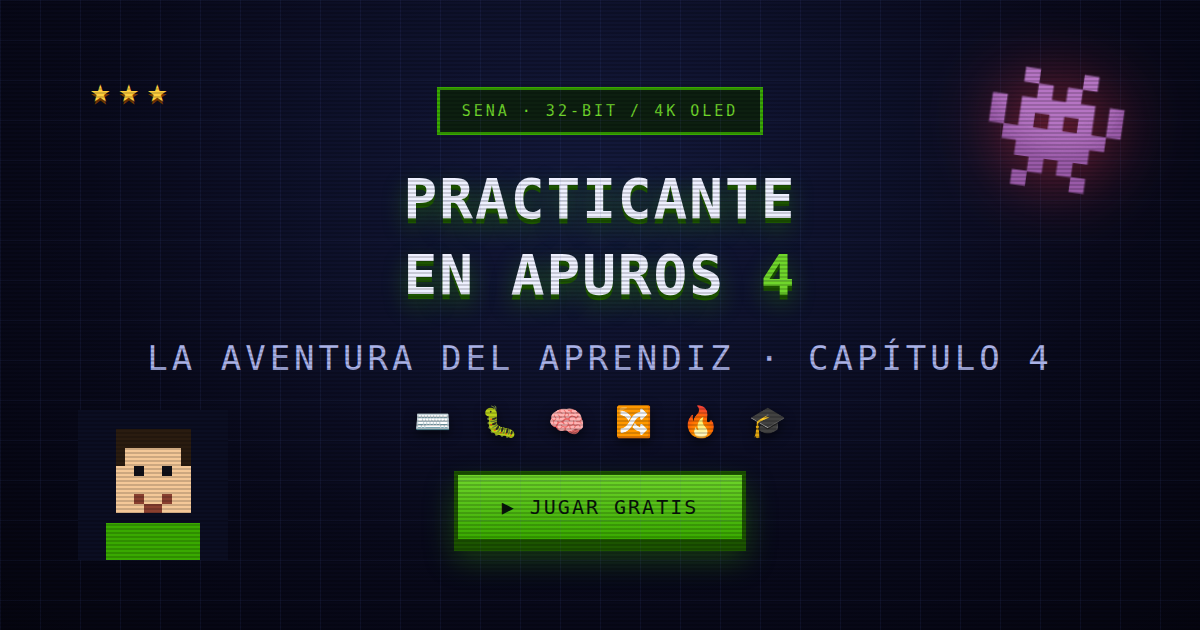
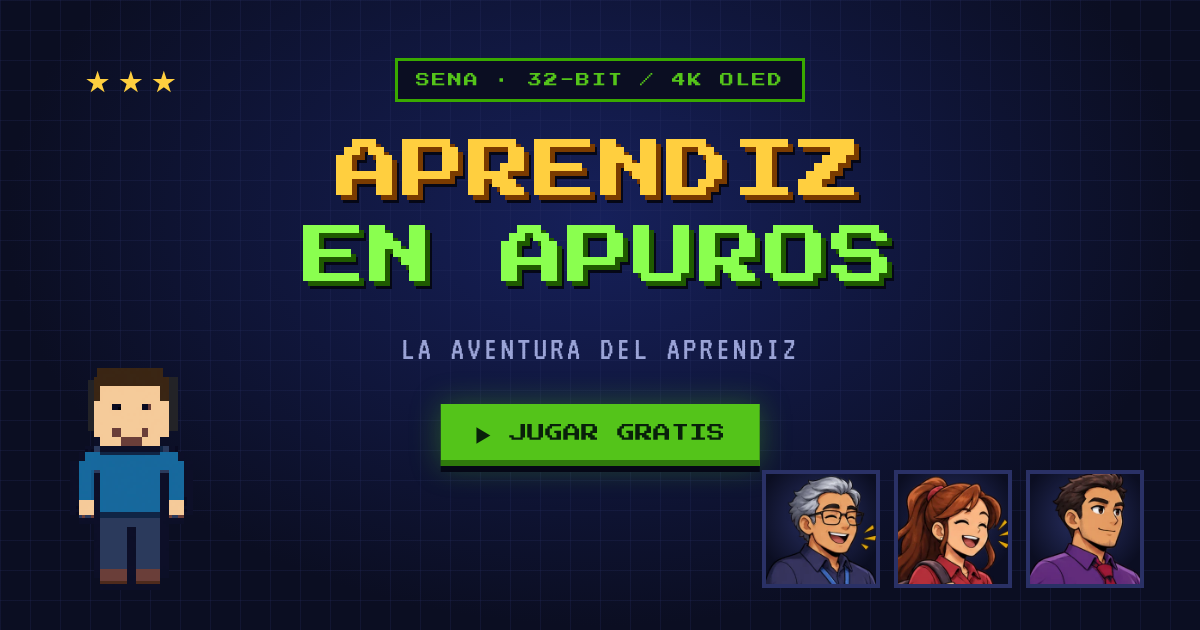
v21.3: el juego se llama "Aprendiz en apuros", sin número
El "4" de "Practicante en Apuros 4" era un número de versión antiguo metido
en el título (y "Capítulo 4" en el subtítulo), no una cuarta parte. Ahora
coincide con el repositorio, los enlaces y la historia (el jugador es un
aprendiz):
- portada del juego: "APRENDIZ EN APUROS" sin la placa del 4, y el subtítulo
  de siempre sin "· Capítulo 4";
- pestaña, vista previa al compartir, nombre del icono instalado (manifest),
  texto de "compartir resultado", README y UI kit;
- portada.png regenerada con el mismo texto que tenía (y los personajes
  actuales); la genera scripts/build-portada.mjs.
El rango "PRACTICANTE", los detalles de ambientación de los minijuegos y la
caché interna pa4 no cambian.

Claude-Session: https://claude.ai/code/session_019Fo2tZVZXrVgMWLNzj5gVe

diff --git a/js/datos.js b/js/datos.js
@@ -1,6 +1,6 @@
 'use strict';
 /* ══════════════════════════════════════════
-   PRACTICANTE EN APUROS 3 · SENA 32-BIT
+   APRENDIZ EN APUROS · SENA 32-BIT
    10 días de etapa lectiva + 5 de etapa productiva
    ══════════════════════════════════════════ */
 /* ── VERSIÓN Y NOVEDADES ──
@@ -20,8 +20,11 @@
    (v21.1, v21.2…). Antes cada publicación subía uno (llegó a v44); se
    renumeró todo con esta regla y la equivalencia vieja → nueva está en
    VERSIONES.md, porque los mensajes de commit conservan los números viejos. */
-const VERSION='v21.2';
+const VERSION='v21.3';
 const NOVEDADES=[
+  {v:'v21.3', fecha:'2026-11-09',
+   es:['El juego se llama ahora "Aprendiz en apuros", sin número: el "4" del título era un número de versión antiguo, no una cuarta parte. Cambian la portada (también se quita el «Capítulo 4» del subtítulo), el nombre del icono al instalarlo, el texto de compartir y la imagen que sale al pegar el enlace.'],
+   en:['The game is now called "Aprendiz en apuros", with no number: the "4" in the title was an old version number, not a fourth part. The title screen (the «Chapter 4» is also removed from the subtitle), the installed icon name, the share text and the link preview image all change.']},
   {v:'v21.2', fecha:'2026-11-09',
    es:['Los personajes de la historia (Instructor, Compañera y Líder técnico) ahora salen siempre dibujados: ese es su estilo. Tu aprendiz sigue en pixel.',
        'Los retratos dibujados se guardan para jugar sin conexión.',
@@ -782,7 +785,7 @@ const TXT={
   glob_sinred:'Sin conexión con el marcador. Abajo siguen tus marcas locales.',
   glob_vacio:'Nadie ha publicado todavía. ¡Sé el primero!',
   glob_locvacio:'Termina el día 5 para registrar tu primera marca.',
-  sub:'LA AVENTURA DEL APRENDIZ · CAPÍTULO 4',mapa:'RUTA DE FORMACIÓN',volver:'← VOLVER',continuar:'CONTINUAR',
+  sub:'LA AVENTURA DEL APRENDIZ',mapa:'RUTA DE FORMACIÓN',volver:'← VOLVER',continuar:'CONTINUAR',
   pausa:'PAUSA',salirmapa:'SALIR AL MAPA',empezar:'¡EMPEZAR!',listo:'¿LISTO?',aqui:'AQUÍ',
   aprobado:'¡DÍA SUPERADO!',fallado:'¡DÍA FALLIDO!',reintentar:'REINTENTAR',siguiente:'SIGUIENTE DÍA ▶',
   gameover:'GAME OVER',gameovertxt:'Te quedaste sin vidas. El instructor te manda a tomar aire y volver mañana.',
@@ -865,7 +868,7 @@ const TXT={
   st_jefes:'JEFES VENCIDOS',st_perfectos:'DÍAS PERFECTOS',st_racha:'MEJOR RACHA',
   st_partidas:'PARTIDAS TERMINADAS',st_sinreg:'Aún no hay datos. ¡A jugar!',
   compartir:'📤 COMPARTIR',copiado:'¡COPIADO AL PORTAPAPELES!',
-  compartexto:'Terminé Practicante en Apuros 4 con {p} pts como {r} 🎓 ¡Juégalo!',
+  compartexto:'Terminé Aprendiz en apuros con {p} pts como {r} 🎓 ¡Juégalo!',
   jefefase:'FASE',avisolaser:'¡LÁSER!',
   guardado:'💾 CÓDIGO DE GUARDADO',exportar:'📤 EXPORTAR PARTIDA',importar:'📥 IMPORTAR',
   pegacodigo:'Pega aquí tu código PA4...',impok:'¡PARTIDA IMPORTADA!',impmal:'CÓDIGO INVÁLIDO',
@@ -909,7 +912,7 @@ const TXT={
   glob_sinred:'No connection to the leaderboard. Your local scores are still below.',
   glob_vacio:'Nobody has posted a score yet. Be the first!',
   glob_locvacio:'Finish day 5 to record your first score.',
-  sub:'THE APPRENTICE ADVENTURE · CHAPTER 4',mapa:'TRAINING PATH',volver:'← BACK',continuar:'CONTINUE',
+  sub:'THE APPRENTICE ADVENTURE',mapa:'TRAINING PATH',volver:'← BACK',continuar:'CONTINUE',
   pausa:'PAUSED',salirmapa:'EXIT TO MAP',empezar:'START!',listo:'READY?',aqui:'HERE',
   aprobado:'DAY CLEARED!',fallado:'DAY FAILED!',reintentar:'RETRY',siguiente:'NEXT DAY ▶',
   gameover:'GAME OVER',gameovertxt:'You ran out of lives. The instructor sends you home to try again tomorrow.',
@@ -991,7 +994,7 @@ const TXT={
   st_jefes:'BOSSES BEATEN',st_perfectos:'PERFECT DAYS',st_racha:'BEST STREAK',
   st_partidas:'GAMES FINISHED',st_sinreg:'No data yet. Go play!',
   compartir:'📤 SHARE',copiado:'COPIED TO CLIPBOARD!',
-  compartexto:'I finished Intern in Trouble 4 with {p} pts as {r} 🎓 Play it!',
+  compartexto:'I finished Aprendiz en apuros with {p} pts as {r} 🎓 Play it!',
   jefefase:'PHASE',avisolaser:'LASER!',
   guardado:'💾 SAVE CODE',exportar:'📤 EXPORT SAVE',importar:'📥 IMPORT',
   pegacodigo:'Paste your PA4 code here...',impok:'SAVE IMPORTED!',impmal:'INVALID CODE',

diff --git a/design-system/dist/index.html b/design-system/dist/index.html
@@ -442,9 +442,6 @@ html.legible .pe-nombre{font-family:'VT323',monospace;font-size:19px}
 .tit-h1{font-size:clamp(19px,6.2vw,30px);line-height:1.28;letter-spacing:1px;text-align:center}
 .tit-h1 .l1{color:var(--y2);text-shadow:3px 3px 0 var(--o1),4px 5px 0 var(--bd),0 0 24px rgba(255,207,63,.3)}
 .tit-h1 .l2{color:var(--g4);text-shadow:3px 3px 0 var(--g0),4px 5px 0 var(--bd),0 0 24px rgba(138,255,79,.3)}
-.tit-h1 .n4{display:inline-block;color:var(--v4);background:var(--v1);
-  border:3px solid var(--v3);padding:2px 9px;margin-left:8px;
-  text-shadow:2px 2px 0 var(--v0);box-shadow:0 4px 0 var(--bd),0 0 18px rgba(168,107,255,.35)}
 
 /* píldora de identidad: rango y puntos en una sola pieza con divisor */
 /* La píldora del mapa lleva TRES tramos (rango, dificultad, puntos) y con la
@@ -2270,7 +2267,7 @@ button.rp-fila:active{transform:translateY(3px);box-shadow:none}
 <p class="pv-note">Dos familias retro: <b>Press Start 2P</b> para títulos y UI (pixel, muy legible en tamaños pequeños) y <b>VT323</b> para textos largos de diálogo, consola y descripciones.</p>
 
 <p class="pv-lbl">Press Start 2P · títulos y HUD</p>
-<h1>PRACTICANTE<br>EN APUROS</h1>
+<h1>APRENDIZ<br>EN APUROS</h1>
 <h2 style="margin-top:14px">EL CONTRATO</h2>
 <h3 style="margin-top:14px">CONSULTA SQL</h3>
 <p class="sub" style="margin-top:10px">LA AVENTURA DEL APRENDIZ · CAPÍTULO 4</p>
@@ -2746,7 +2743,7 @@ button.rp-fila:active{transform:translateY(3px);box-shadow:none}
       </div>
     </div>
   </section>
-  <p class="gal-foot">Generado desde css/estilos.css · node scripts/build-ui-kit.mjs · Practicante en Apuros 4 · SENA</p>
+  <p class="gal-foot">Generado desde css/estilos.css · node scripts/build-ui-kit.mjs · Aprendiz en apuros · SENA</p>
 </div>
 </body>
 </html>

diff --git a/index.html b/index.html
@@ -5,17 +5,17 @@
 <meta name="viewport" content="width=device-width,initial-scale=1,viewport-fit=cover">
 <meta name="theme-color" content="#090a1c">
 <meta name="apple-mobile-web-app-capable" content="yes">
-<title>Practicante en Apuros 4 · SENA</title>
+<title>Aprendiz en apuros · SENA</title>
 <meta name="description" content="Pasa tu etapa lectiva y tu etapa productiva como aprendiz de programación del SENA y titúlate: minijuegos retro, jefe final oculto y certificado. Juego gratis, sin descargas.">
 <meta property="og:type" content="website">
-<meta property="og:title" content="Practicante en Apuros 4 · SENA">
+<meta property="og:title" content="Aprendiz en apuros · SENA">
 <meta property="og:description" content="Pasa tu etapa lectiva y tu etapa productiva como aprendiz de programación del SENA y titúlate: minijuegos retro, jefe final oculto y certificado.">
 <meta property="og:url" content="https://antoniyesidpabonpenalosa-bit.github.io/aprendiz-en-apuros/">
 <meta property="og:image" content="https://antoniyesidpabonpenalosa-bit.github.io/aprendiz-en-apuros/portada.png">
 <meta property="og:image:width" content="1200">
 <meta property="og:image:height" content="630">
 <meta name="twitter:card" content="summary_large_image">
-<meta name="twitter:title" content="Practicante en Apuros 4 · SENA">
+<meta name="twitter:title" content="Aprendiz en apuros · SENA">
 <meta name="twitter:description" content="Pasa tu etapa lectiva y tu etapa productiva como aprendiz de programación del SENA y titúlate: minijuegos retro, jefe final oculto y certificado.">
 <meta name="twitter:image" content="https://antoniyesidpabonpenalosa-bit.github.io/aprendiz-en-apuros/portada.png">
 <link rel="manifest" href="manifest.webmanifest">

diff --git a/design-system/dist/foundations/tipografia.html b/design-system/dist/foundations/tipografia.html
@@ -443,9 +443,6 @@ html.legible .pe-nombre{font-family:'VT323',monospace;font-size:19px}
 .tit-h1{font-size:clamp(19px,6.2vw,30px);line-height:1.28;letter-spacing:1px;text-align:center}
 .tit-h1 .l1{color:var(--y2);text-shadow:3px 3px 0 var(--o1),4px 5px 0 var(--bd),0 0 24px rgba(255,207,63,.3)}
 .tit-h1 .l2{color:var(--g4);text-shadow:3px 3px 0 var(--g0),4px 5px 0 var(--bd),0 0 24px rgba(138,255,79,.3)}
-.tit-h1 .n4{display:inline-block;color:var(--v4);background:var(--v1);
-  border:3px solid var(--v3);padding:2px 9px;margin-left:8px;
-  text-shadow:2px 2px 0 var(--v0);box-shadow:0 4px 0 var(--bd),0 0 18px rgba(168,107,255,.35)}
 
 /* píldora de identidad: rango y puntos en una sola pieza con divisor */
 /* La píldora del mapa lleva TRES tramos (rango, dificultad, puntos) y con la
@@ -1545,7 +1542,7 @@ html.hd body{background:radial-gradient(130% 120% at 50% -10%,#131b38 0%,#04050c
 <p class="pv-note">Dos familias retro: <b>Press Start 2P</b> para títulos y UI (pixel, muy legible en tamaños pequeños) y <b>VT323</b> para textos largos de diálogo, consola y descripciones.</p>
 
 <p class="pv-lbl">Press Start 2P · títulos y HUD</p>
-<h1>PRACTICANTE<br>EN APUROS</h1>
+<h1>APRENDIZ<br>EN APUROS</h1>
 <h2 style="margin-top:14px">EL CONTRATO</h2>
 <h3 style="margin-top:14px">CONSULTA SQL</h3>
 <p class="sub" style="margin-top:10px">LA AVENTURA DEL APRENDIZ · CAPÍTULO 4</p>

diff --git a/css/estilos.css b/css/estilos.css
@@ -435,9 +435,6 @@ html.legible .pe-nombre{font-family:'VT323',monospace;font-size:19px}
 .tit-h1{font-size:clamp(19px,6.2vw,30px);line-height:1.28;letter-spacing:1px;text-align:center}
 .tit-h1 .l1{color:var(--y2);text-shadow:3px 3px 0 var(--o1),4px 5px 0 var(--bd),0 0 24px rgba(255,207,63,.3)}
 .tit-h1 .l2{color:var(--g4);text-shadow:3px 3px 0 var(--g0),4px 5px 0 var(--bd),0 0 24px rgba(138,255,79,.3)}
-.tit-h1 .n4{display:inline-block;color:var(--v4);background:var(--v1);
-  border:3px solid var(--v3);padding:2px 9px;margin-left:8px;
-  text-shadow:2px 2px 0 var(--v0);box-shadow:0 4px 0 var(--bd),0 0 18px rgba(168,107,255,.35)}
 
 /* píldora de identidad: rango y puntos en una sola pieza con divisor */
 /* La píldora del mapa lleva TRES tramos (rango, dificultad, puntos) y con la

diff --git a/design-system/dist/base.css b/design-system/dist/base.css
@@ -435,9 +435,6 @@ html.legible .pe-nombre{font-family:'VT323',monospace;font-size:19px}
 .tit-h1{font-size:clamp(19px,6.2vw,30px);line-height:1.28;letter-spacing:1px;text-align:center}
 .tit-h1 .l1{color:var(--y2);text-shadow:3px 3px 0 var(--o1),4px 5px 0 var(--bd),0 0 24px rgba(255,207,63,.3)}
 .tit-h1 .l2{color:var(--g4);text-shadow:3px 3px 0 var(--g0),4px 5px 0 var(--bd),0 0 24px rgba(138,255,79,.3)}
-.tit-h1 .n4{display:inline-block;color:var(--v4);background:var(--v1);
-  border:3px solid var(--v3);padding:2px 9px;margin-left:8px;
-  text-shadow:2px 2px 0 var(--v0);box-shadow:0 4px 0 var(--bd),0 0 18px rgba(168,107,255,.35)}
 
 /* píldora de identidad: rango y puntos en una sola pieza con divisor */
 /* La píldora del mapa lleva TRES tramos (rango, dificultad, puntos) y con la

diff --git a/design-system/dist/components/botones.html b/design-system/dist/components/botones.html
@@ -443,9 +443,6 @@ html.legible .pe-nombre{font-family:'VT323',monospace;font-size:19px}
 .tit-h1{font-size:clamp(19px,6.2vw,30px);line-height:1.28;letter-spacing:1px;text-align:center}
 .tit-h1 .l1{color:var(--y2);text-shadow:3px 3px 0 var(--o1),4px 5px 0 var(--bd),0 0 24px rgba(255,207,63,.3)}
 .tit-h1 .l2{color:var(--g4);text-shadow:3px 3px 0 var(--g0),4px 5px 0 var(--bd),0 0 24px rgba(138,255,79,.3)}
-.tit-h1 .n4{display:inline-block;color:var(--v4);background:var(--v1);
-  border:3px solid var(--v3);padding:2px 9px;margin-left:8px;
-  text-shadow:2px 2px 0 var(--v0);box-shadow:0 4px 0 var(--bd),0 0 18px rgba(168,107,255,.35)}
 
 /* píldora de identidad: rango y puntos en una sola pieza con divisor */
 /* La píldora del mapa lleva TRES tramos (rango, dificultad, puntos) y con la

diff --git a/design-system/dist/components/caza-bugs.html b/design-system/dist/components/caza-bugs.html
@@ -443,9 +443,6 @@ html.legible .pe-nombre{font-family:'VT323',monospace;font-size:19px}
 .tit-h1{font-size:clamp(19px,6.2vw,30px);line-height:1.28;letter-spacing:1px;text-align:center}
 .tit-h1 .l1{color:var(--y2);text-shadow:3px 3px 0 var(--o1),4px 5px 0 var(--bd),0 0 24px rgba(255,207,63,.3)}
 .tit-h1 .l2{color:var(--g4);text-shadow:3px 3px 0 var(--g0),4px 5px 0 var(--bd),0 0 24px rgba(138,255,79,.3)}
-.tit-h1 .n4{display:inline-block;color:var(--v4);background:var(--v1);
-  border:3px solid var(--v3);padding:2px 9px;margin-left:8px;
-  text-shadow:2px 2px 0 var(--v0);box-shadow:0 4px 0 var(--bd),0 0 18px rgba(168,107,255,.35)}
 
 /* píldora de identidad: rango y puntos en una sola pieza con divisor */
 /* La píldora del mapa lleva TRES tramos (rango, dificultad, puntos) y con la

diff --git a/design-system/dist/components/certificado-records.html b/design-system/dist/components/certificado-records.html
@@ -443,9 +443,6 @@ html.legible .pe-nombre{font-family:'VT323',monospace;font-size:19px}
 .tit-h1{font-size:clamp(19px,6.2vw,30px);line-height:1.28;letter-spacing:1px;text-align:center}
 .tit-h1 .l1{color:var(--y2);text-shadow:3px 3px 0 var(--o1),4px 5px 0 var(--bd),0 0 24px rgba(255,207,63,.3)}
 .tit-h1 .l2{color:var(--g4);text-shadow:3px 3px 0 var(--g0),4px 5px 0 var(--bd),0 0 24px rgba(138,255,79,.3)}
-.tit-h1 .n4{display:inline-block;color:var(--v4);background:var(--v1);
-  border:3px solid var(--v3);padding:2px 9px;margin-left:8px;
-  text-shadow:2px 2px 0 var(--v0);box-shadow:0 4px 0 var(--bd),0 0 18px rgba(168,107,255,.35)}
 
 /* píldora de identidad: rango y puntos en una sola pieza con divisor */
 /* La píldora del mapa lleva TRES tramos (rango, dificultad, puntos) y con la

diff --git a/design-system/dist/components/code-review.html b/design-system/dist/components/code-review.html
@@ -443,9 +443,6 @@ html.legible .pe-nombre{font-family:'VT323',monospace;font-size:19px}
 .tit-h1{font-size:clamp(19px,6.2vw,30px);line-height:1.28;letter-spacing:1px;text-align:center}
 .tit-h1 .l1{color:var(--y2);text-shadow:3px 3px 0 var(--o1),4px 5px 0 var(--bd),0 0 24px rgba(255,207,63,.3)}
 .tit-h1 .l2{color:var(--g4);text-shadow:3px 3px 0 var(--g0),4px 5px 0 var(--bd),0 0 24px rgba(138,255,79,.3)}
-.tit-h1 .n4{display:inline-block;color:var(--v4);background:var(--v1);
-  border:3px solid var(--v3);padding:2px 9px;margin-left:8px;
-  text-shadow:2px 2px 0 var(--v0);box-shadow:0 4px 0 var(--bd),0 0 18px rgba(168,107,255,.35)}
 
 /* píldora de identidad: rango y puntos en una sola pieza con divisor */
 /* La píldora del mapa lleva TRES tramos (rango, dificultad, puntos) y con la

diff --git a/design-system/dist/components/dialogo.html b/design-system/dist/components/dialogo.html
@@ -443,9 +443,6 @@ html.legible .pe-nombre{font-family:'VT323',monospace;font-size:19px}
 .tit-h1{font-size:clamp(19px,6.2vw,30px);line-height:1.28;letter-spacing:1px;text-align:center}
 .tit-h1 .l1{color:var(--y2);text-shadow:3px 3px 0 var(--o1),4px 5px 0 var(--bd),0 0 24px rgba(255,207,63,.3)}
 .tit-h1 .l2{color:var(--g4);text-shadow:3px 3px 0 var(--g0),4px 5px 0 var(--bd),0 0 24px rgba(138,255,79,.3)}
-.tit-h1 .n4{display:inline-block;color:var(--v4);background:var(--v1);
-  border:3px solid var(--v3);padding:2px 9px;margin-left:8px;
-  text-shadow:2px 2px 0 var(--v0);box-shadow:0 4px 0 var(--bd),0 0 18px rgba(168,107,255,.35)}
 
 /* píldora de identidad: rango y puntos en una sola pieza con divisor */
 /* La píldora del mapa lleva TRES tramos (rango, dificultad, puntos) y con la

diff --git a/design-system/dist/components/feedback.html b/design-system/dist/components/feedback.html
@@ -443,9 +443,6 @@ html.legible .pe-nombre{font-family:'VT323',monospace;font-size:19px}
 .tit-h1{font-size:clamp(19px,6.2vw,30px);line-height:1.28;letter-spacing:1px;text-align:center}
 .tit-h1 .l1{color:var(--y2);text-shadow:3px 3px 0 var(--o1),4px 5px 0 var(--bd),0 0 24px rgba(255,207,63,.3)}
 .tit-h1 .l2{color:var(--g4);text-shadow:3px 3px 0 var(--g0),4px 5px 0 var(--bd),0 0 24px rgba(138,255,79,.3)}
-.tit-h1 .n4{display:inline-block;color:var(--v4);background:var(--v1);
-  border:3px solid var(--v3);padding:2px 9px;margin-left:8px;
-  text-shadow:2px 2px 0 var(--v0);box-shadow:0 4px 0 var(--bd),0 0 18px rgba(168,107,255,.35)}
 
 /* píldora de identidad: rango y puntos en una sola pieza con divisor */
 /* La píldora del mapa lleva TRES tramos (rango, dificultad, puntos) y con la
